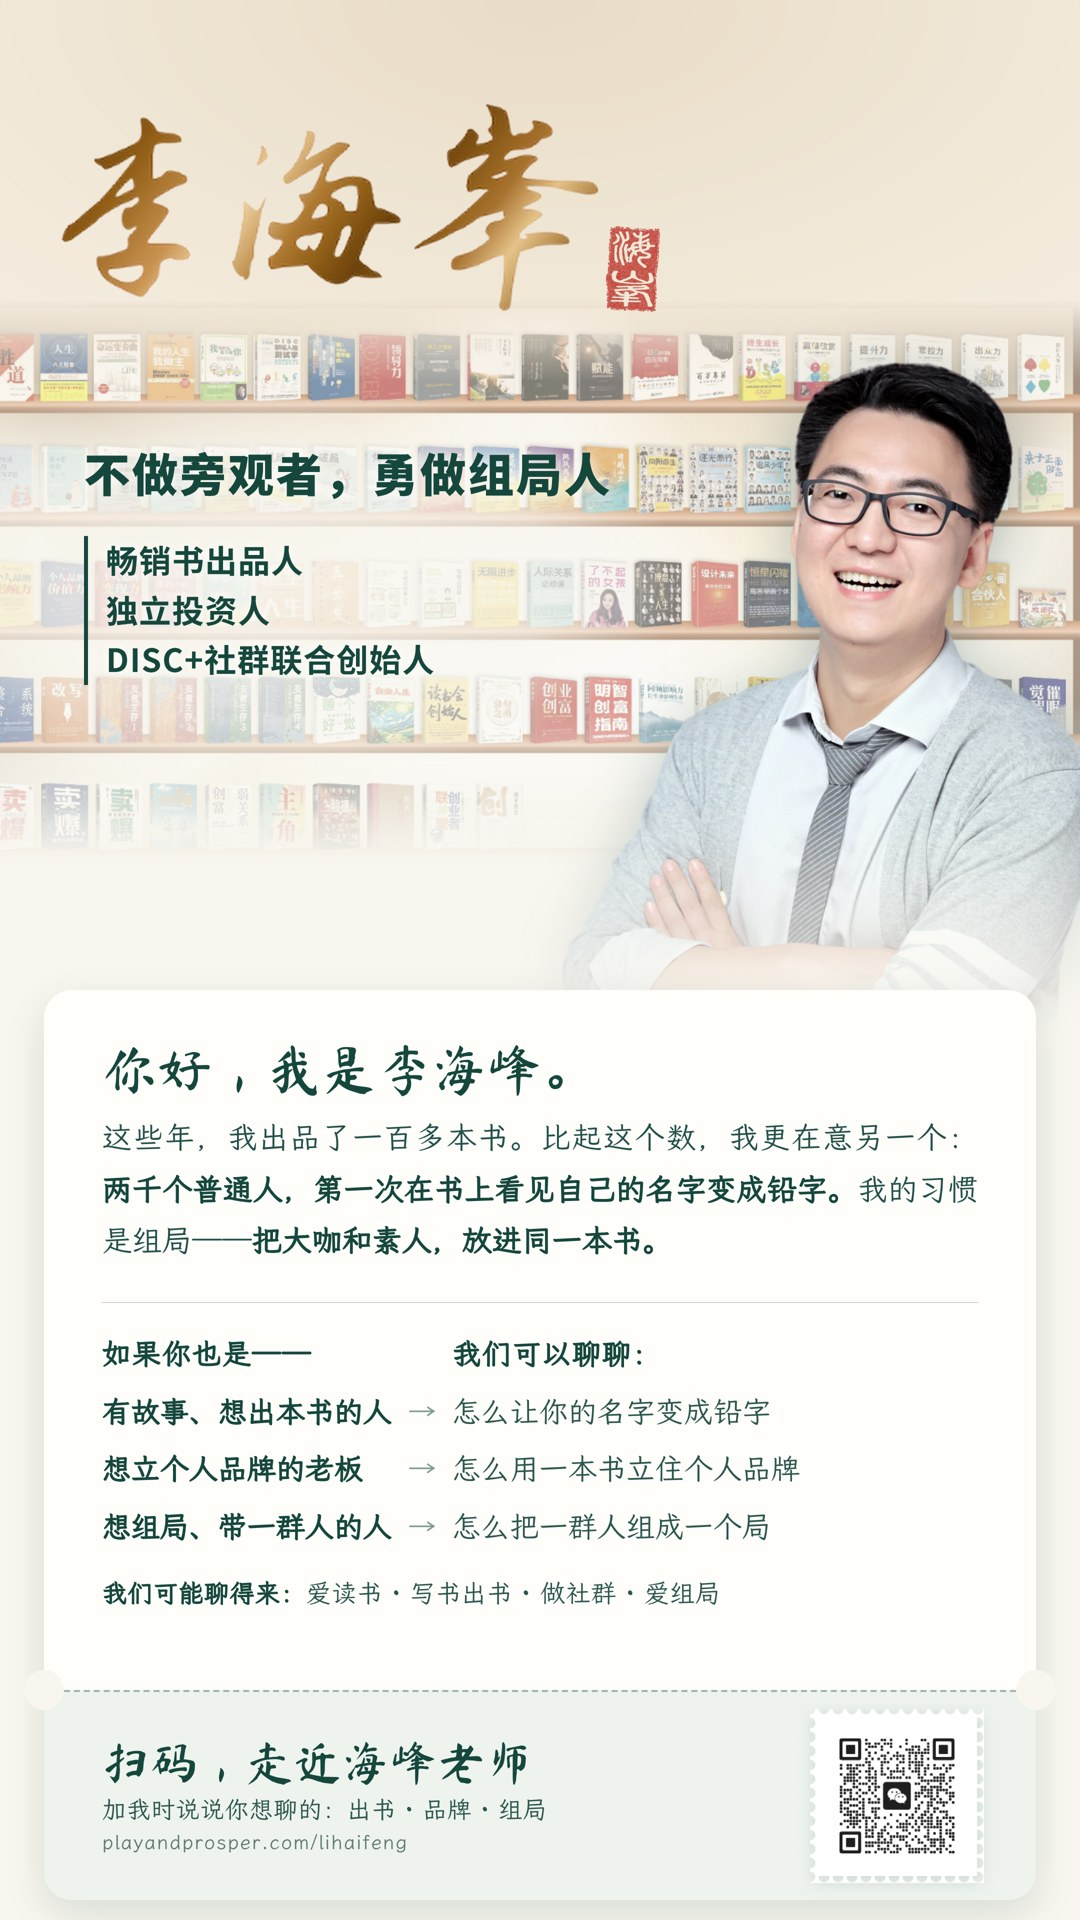
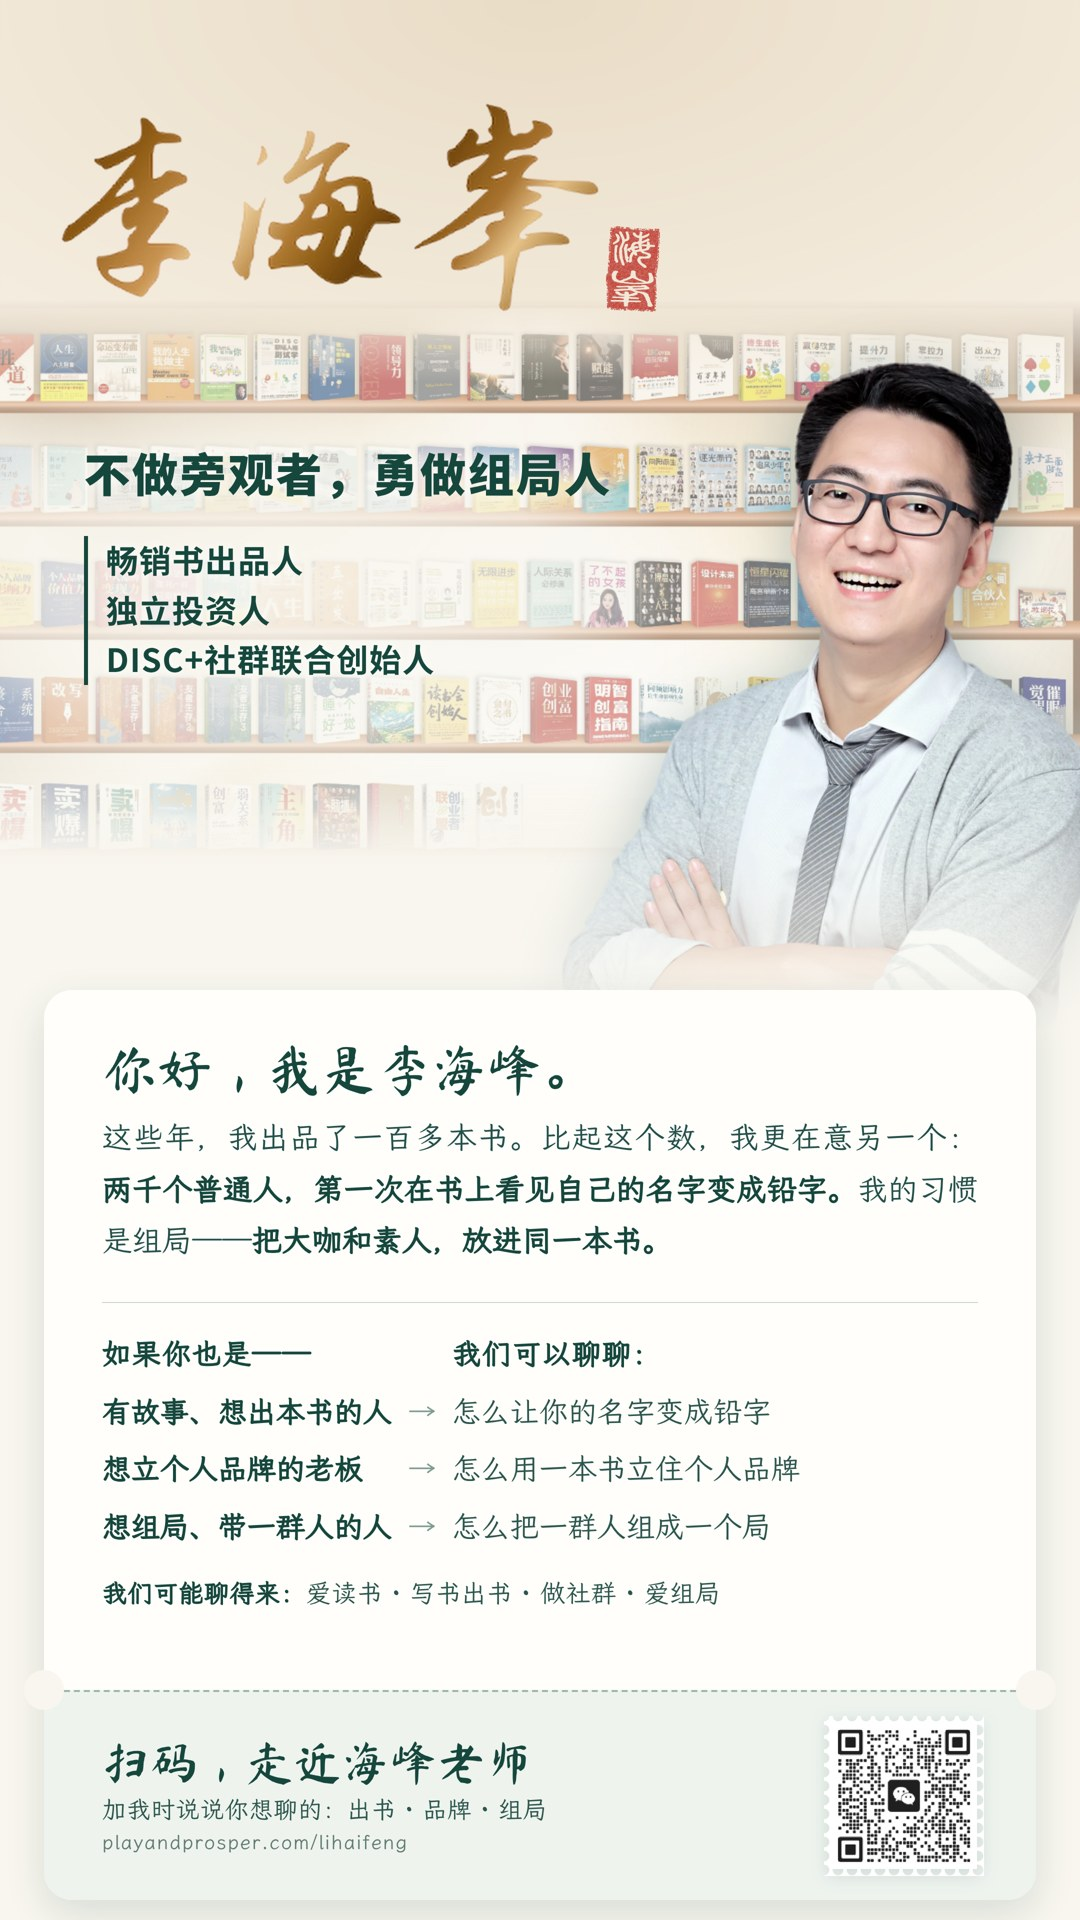
海峰老师主页：换上二维码更新后的个人名片；时间线改成五站一排（南京见面会、出品人闭门会、深圳站新书发布会、2026.5 广州方案班合影、2026.10 广州方案班）
Claude-Session: https://claude.ai/code/session_01BfepyGSHVDQz4j4958TxbY

Changed region(s): [[0.7333, 0.875, 0.9167, 0.9688]]

diff --git a/v2/lihaifeng/index.html b/v2/lihaifeng/index.html
@@ -151,14 +151,17 @@ section{padding:96px 0}
 .pol small{display:block;color:var(--mute);font-size:13px;line-height:1.6;margin-top:4px}
 @media(max-width:860px){.with .g{grid-template-columns:1fr 1fr;gap:18px}}
 
-.tl6{list-style:none;display:grid;grid-template-columns:repeat(3,1fr);gap:46px 30px;margin-top:48px;position:relative}
+.tl6{list-style:none;display:grid;grid-template-columns:repeat(5,1fr);gap:18px;margin-top:48px;position:relative}
 .tli{position:relative;padding-top:34px}
-.tli:before{content:"";position:absolute;left:-30px;right:0;top:9px;height:2px;background:linear-gradient(90deg,rgba(193,146,63,.15),var(--gold),rgba(193,146,63,.15))}
+.tli:before{content:"";position:absolute;left:-18px;right:0;top:9px;height:2px;background:linear-gradient(90deg,rgba(193,146,63,.15),var(--gold),rgba(193,146,63,.15))}
 .tli .dot{position:absolute;left:0;top:3px;width:14px;height:14px;border-radius:50%;background:var(--gold);box-shadow:0 0 0 5px rgba(193,146,63,.2)}
-.tli time{position:absolute;left:22px;top:0;font:700 14px/20px var(--serif);color:var(--gold);letter-spacing:.06em;background:var(--paper);padding:0 10px 0 6px}
-.tli .pol{margin-top:6px}
+.tli time{position:absolute;left:18px;top:0;font:700 12.5px/20px var(--serif);white-space:nowrap;color:var(--gold);letter-spacing:.06em;background:var(--paper);padding:0 10px 0 6px}
+.tli .pol{margin-top:6px;padding:8px 8px 12px}
+.tli .pol b{font-size:13.5px;margin-top:9px}
+.tli .pol small{font-size:12px;line-height:1.55}
 .tli .pol img{aspect-ratio:4/3}
-@media(max-width:860px){.tl6{grid-template-columns:1fr;gap:30px;padding-left:26px}.tl6:before{content:"";position:absolute;left:6px;top:8px;bottom:0;width:2px;background:linear-gradient(var(--gold),rgba(193,146,63,.15))}.tli{padding-top:28px}.tli:before{display:none}.tli .dot{left:-26px}.tli time{left:0}}
+@media(max-width:1000px) and (min-width:861px){.tl6{grid-template-columns:repeat(3,1fr);gap:30px 18px}}
+@media(max-width:860px){.tl6{grid-template-columns:1fr 1fr;gap:26px 14px}.tli:before{left:0}.tli time{left:18px;font-size:12px}}
 /* ===== 原话 ===== */
 .words{background:var(--ink);color:var(--paper);overflow:hidden}
 .words .g{margin-top:40px;columns:3 260px;column-gap:20px}
@@ -429,12 +432,11 @@ footer .you{display:inline-block;margin-top:6px;color:var(--gold2);text-decorati
     <div class="kick rv">和边玩边赚在一起的他</div>
     <h2 class="rv">从一面之缘，<em>到一起出书</em></h2>
     <ol class="tl6">
-      <li class="tli rv"><span class="dot"></span><time>2024 · 7 · 南京</time><figure class="pol" style="--r:-3deg"><img src="with-nj.jpg?v=20261120" alt="2024 · 7 · 南京，一面之缘" loading="lazy" style="object-position:50% 30%"><b>一面之缘</b><small>友者生存海峰见面会南京站，千百合带着鲜花饼来见他</small></figure></li>
-      <li class="tli rv"><span class="dot"></span><time>2024 · 12</time><figure class="pol" style="--r:2deg"><img src="with-flower.jpg?v=20261120" alt="2024 · 12，出品人闭门会" loading="lazy" style="object-position:50% 40%"><b>出品人闭门会</b><small>千百合从大洋彼岸飞过去，第一次成为出品人</small></figure></li>
-      <li class="tli rv"><span class="dot"></span><time>2025 · 1 · 广州</time><figure class="pol" style="--r:-2deg"><img src="with-gz.jpg?v=20261120" alt="2025 · 1 · 广州，DISC+ 授权讲师班" loading="lazy" style="object-position:50% 30%"><b>DISC+ 授权讲师班</b><small>第 120 期，一起上课的同学</small></figure></li>
-      <li class="tli rv"><span class="dot"></span><time>2026 · 5 · 广州</time><figure class="pol" style="--r:3deg"><img src="stage.jpg?v=20261120" alt="2026 · 5 · 广州，联合出书实操方案班" loading="lazy" style="object-position:50% 30%"><b>联合出书实操方案班</b><small>他在台上讲怎么把一群人组成一本书</small></figure></li>
-      <li class="tli rv"><span class="dot"></span><time>2026 · 10 · 广州</time><figure class="pol" style="--r:-2deg"><img src="t-oct-books.jpg?v=20261120" alt="2026 · 10 · 广州，方案班 · 全球新书发布会" loading="lazy" style="object-position:50% 35%"><b>方案班 · 全球新书发布会</b><small>四本书，抱在千百合怀里</small></figure></li>
-      <li class="tli rv"><span class="dot"></span><time>2026 · 10 · 上海</time><figure class="pol" style="--r:2deg"><img src="t-oct-yuqi.jpg?v=20261120" alt="2026 · 10 · 上海，金雨麒 AI-OPC 峰会" loading="lazy" style="object-position:50% 88%"><b>金雨麒 AI-OPC 峰会</b><small>千百合和金雨麒同台，边玩边赚走到更多人面前</small></figure></li>
+      <li class="tli rv"><span class="dot"></span><time>2024 · 7 · 南京</time><figure class="pol" style="--r:-2deg"><img src="with-nj.jpg?v=20261120b" alt="2024 · 7 · 南京，一面之缘" loading="lazy" style="object-position:50% 30%"><b>一面之缘</b><small>友者生存海峰见面会南京站，千百合带着鲜花饼来见他</small></figure></li>
+      <li class="tli rv"><span class="dot"></span><time>2024 · 12</time><figure class="pol" style="--r:2deg"><img src="with-flower.jpg?v=20261120b" alt="2024 · 12，出品人闭门会" loading="lazy" style="object-position:50% 40%"><b>出品人闭门会</b><small>千百合从大洋彼岸飞过去，第一次成为出品人</small></figure></li>
+      <li class="tli rv"><span class="dot"></span><time>深圳 · 梧桐山</time><figure class="pol" style="--r:-1.5deg"><img src="t-sz.jpg?v=20261120b" alt="深圳 · 梧桐山，全球新书发布会 · 深圳站" loading="lazy" style="object-position:50% 45%"><b>全球新书发布会 · 深圳站</b><small>他坐在正中间，作者们围着他比心</small></figure></li>
+      <li class="tli rv"><span class="dot"></span><time>2026 · 5 · 广州</time><figure class="pol" style="--r:2deg"><img src="t-may.jpg?v=20261120b" alt="2026 · 5 · 广州，联合出书实操方案班" loading="lazy" style="object-position:50% 30%"><b>联合出书实操方案班</b><small>他和千百合在方案班合影</small></figure></li>
+      <li class="tli rv"><span class="dot"></span><time>2026 · 10 · 广州</time><figure class="pol" style="--r:-2deg"><img src="t-oct.jpg?v=20261120b" alt="2026 · 10 · 广州，联合出书实操方案班" loading="lazy" style="object-position:50% 30%"><b>联合出书实操方案班</b><small>十月，他又站上方案班的讲台</small></figure></li>
     </ol>
   </div>
 </section>
@@ -479,10 +481,10 @@ footer .you{display:inline-block;margin-top:6px;color:var(--gold2);text-decorati
     <h2 class="rv">人生卡，和一张<em>名片</em></h2>
     <div class="g2">
       <figure class="tk rv"><span class="tag">入场券 №书4-00</span><div class="in" data-big="card.jpg?v=20261120"><img src="card.jpg?v=20261120" alt="李海峰的人生卡：今天遇见谁，你怎么活，世界就怎么记住你" loading="lazy" width="1080" height="1920"></div><figcaption><b>人生卡</b>书四 · 序：先活，再被记住</figcaption></figure>
-      <figure class="tk rv" style="--r:3deg"><div class="in" data-big="intro.jpg?v=20261120"><img src="intro.jpg?v=20261120" alt="李海峰的个人名片：不做旁观者，勇做组局人" loading="lazy" width="1080" height="1920"></div><figcaption><b>个人名片</b>不做旁观者，勇做组局人</figcaption></figure>
+      <figure class="tk rv" style="--r:3deg"><div class="in" data-big="intro.jpg?v=20261120b"><img src="intro.jpg?v=20261120b" alt="李海峰的个人名片：不做旁观者，勇做组局人" loading="lazy" width="1080" height="1920"></div><figcaption><b>个人名片</b>不做旁观者，勇做组局人</figcaption></figure>
     </div>
     <h3 class="rv" style="text-align:center">转给一个正在想“要不要出书”的朋友</h3>
-    <div class="dl rv" style="justify-content:center"><a href="card.jpg?v=20261120" download="李海峰-人生卡.jpg">保存人生卡</a><a href="intro.jpg?v=20261120" download="李海峰-个人名片.jpg">保存个人名片</a></div>
+    <div class="dl rv" style="justify-content:center"><a href="card.jpg?v=20261120" download="李海峰-人生卡.jpg">保存人生卡</a><a href="intro.jpg?v=20261120b" download="李海峰-个人名片.jpg">保存个人名片</a></div>
   </div>
 </section>
 
